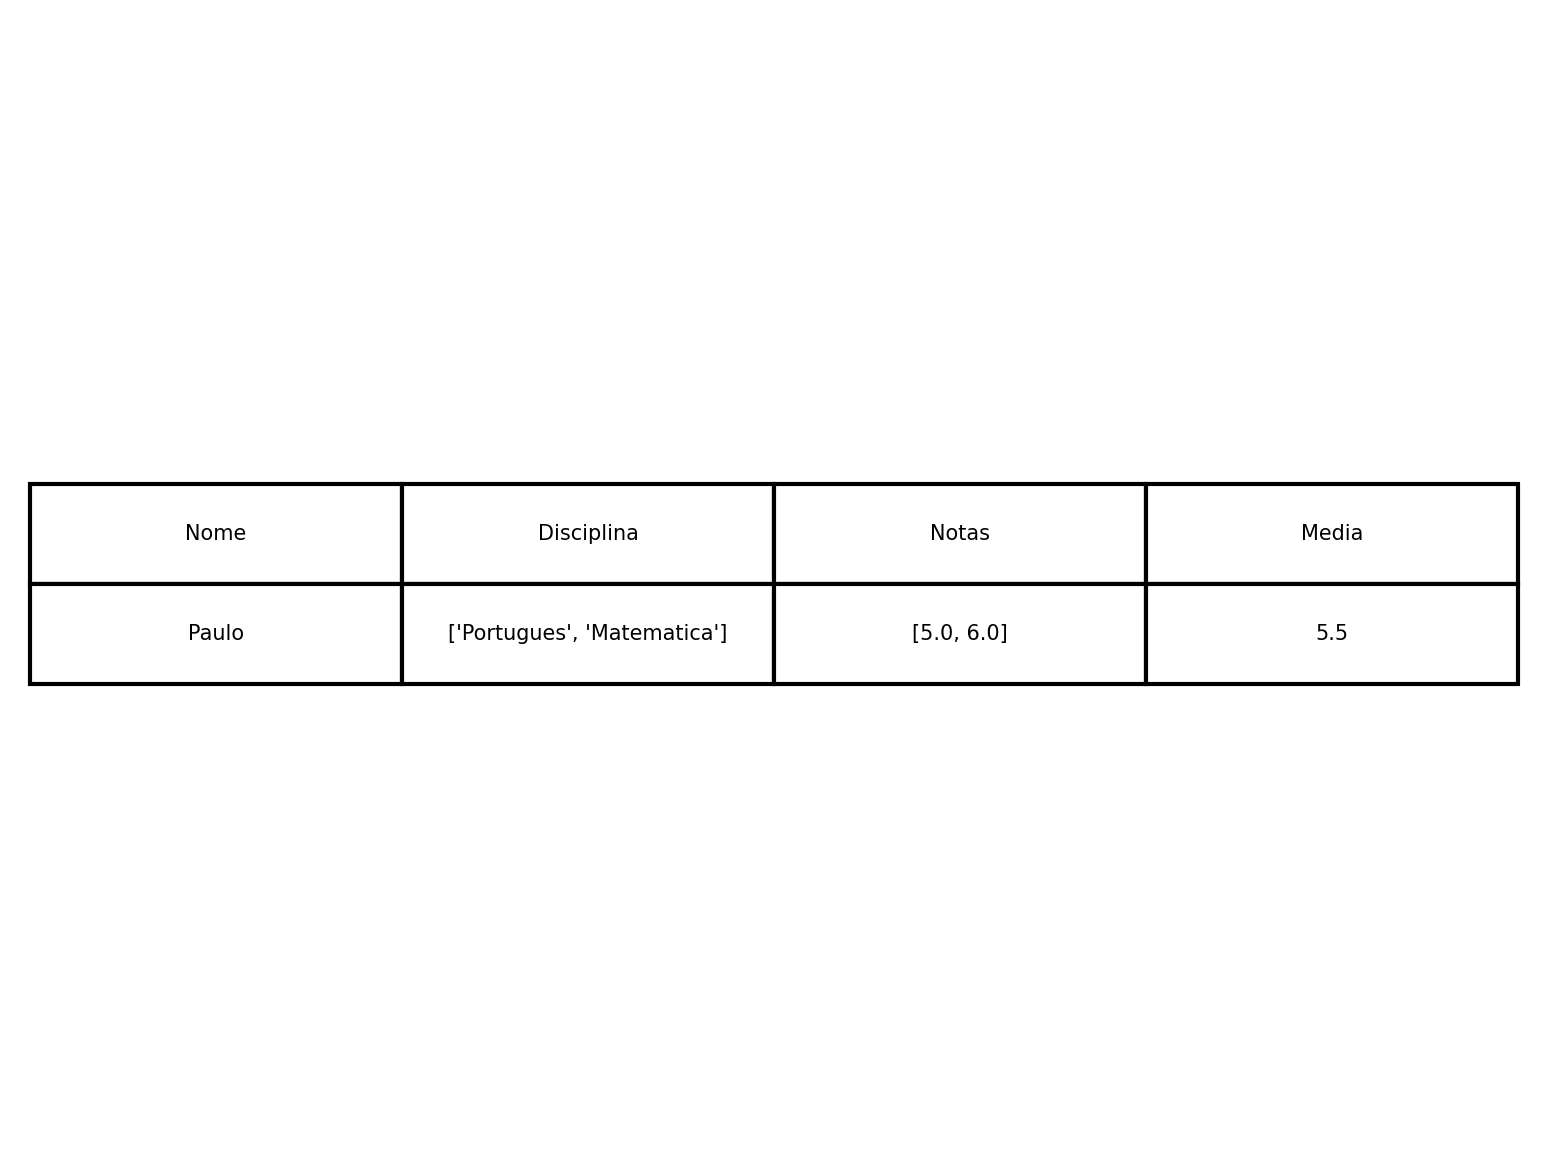
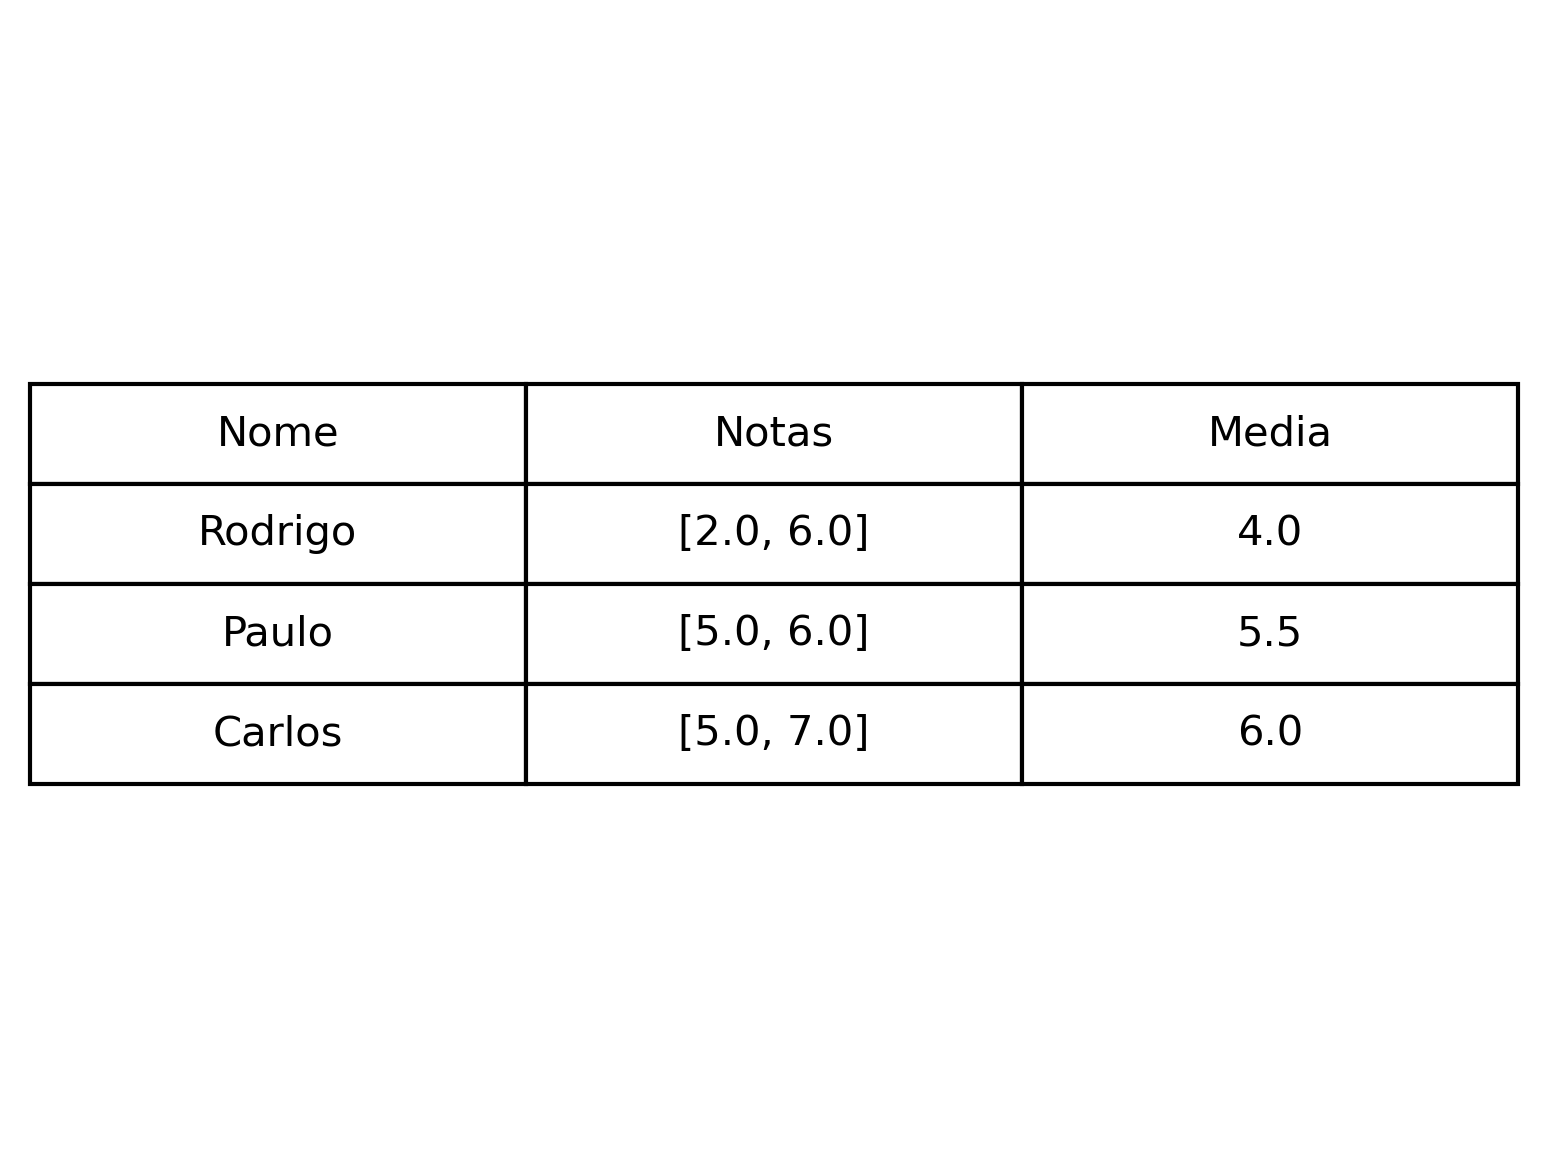
voltei

diff --git a/main.py b/main.py
@@ -92,7 +92,7 @@ def validadorDeNome(msg):
             print('\033[31mERRO!! Valor invalido\033[m')
 
 
-def manipuladorDeArquivos(nome, notas, disciplina):
+def manipuladorDeArquivos(nome, notas):
 
     """
     Cria e adiciona dados a um arquivo csv
@@ -107,13 +107,13 @@ def manipuladorDeArquivos(nome, notas, disciplina):
     if path.exists('alunos.csv'):# Validando se um arquivo existe
         with open('alunos.csv', 'a+', newline='') as arquivo:
             escritor_csv = csv.writer(arquivo)
-            escritor_csv.writerow([nome, disciplina, notas, media(notas)])
+            escritor_csv.writerow([nome, notas, media(notas)])
 
     else:
         with open('alunos.csv', 'w', newline='') as arquivo:
             escritor_csv = csv.writer(arquivo)
-            escritor_csv.writerow(['Nome', 'Disciplina', 'Notas', 'Media'])
-            escritor_csv.writerow([nome, disciplina, notas, media(notas)])
+            escritor_csv.writerow(['Nome', 'Notas', 'Media'])
+            escritor_csv.writerow([nome, notas, media(notas)])
 
 
 def cadastroAluno():
@@ -126,20 +126,20 @@ def cadastroAluno():
     while True:# Loop infinito
         LimparTela()
         cabecalho('CADASTRO DE ALUNOS')
-        disciplinas = ['Portugues', 'Matematica']
         notas = []# Lista de notas
         nome = ""# Nome do aluno
         
         nome = validadorDeNome('Digite o nome do aluno: ').capitalize().strip()# Entrada do nome do aluno
+        provas = validadorDeNumeroInt('Quantas provas {} fez: ', nome)# Entrada para quantidade de notas
 
-        for num in range(0, len(disciplinas)):# Um loop finito
-            nota = validadorDeNumeroFloat('Digite a nota de {}: ', disciplinas[num])# Entrada de notas do aluno
+        for num in range(0, provas):# Um loop finito
+            nota = validadorDeNumeroFloat('Digite a nota de {}: ', num + 1)# Entrada de notas do aluno
             notas.append(nota)# Adiciona a ultima nota digitada do aluno em uma lista
             
         # Adiciona o nome do aluno no dicionario com key e sua lista de notas é convertida para tupla
         # e adicionada com valor
 
-        manipuladorDeArquivos(nome=nome, disciplina=disciplinas, notas=notas)
+        manipuladorDeArquivos(nome=nome, notas=notas)
 
         while True:# Loop infinito
             try:

diff --git a/Oq_faze.md b/Oq_faze.md
@@ -1,4 +1,2 @@
-No momento estou tentando adicionar duas tabelas uma no terminal e outra no png, estou usando pandas e matplotlib
-Me encontrei em um momento meio complicado, onde consigui gerar a imagem e a tabela, porém nas notas e nas diciplinas esta escom uma lista, mas não é isso que eu quero, quero algo como:
 
 ![imagem de exemplo](imagens/Imagem_exeplo.png)
